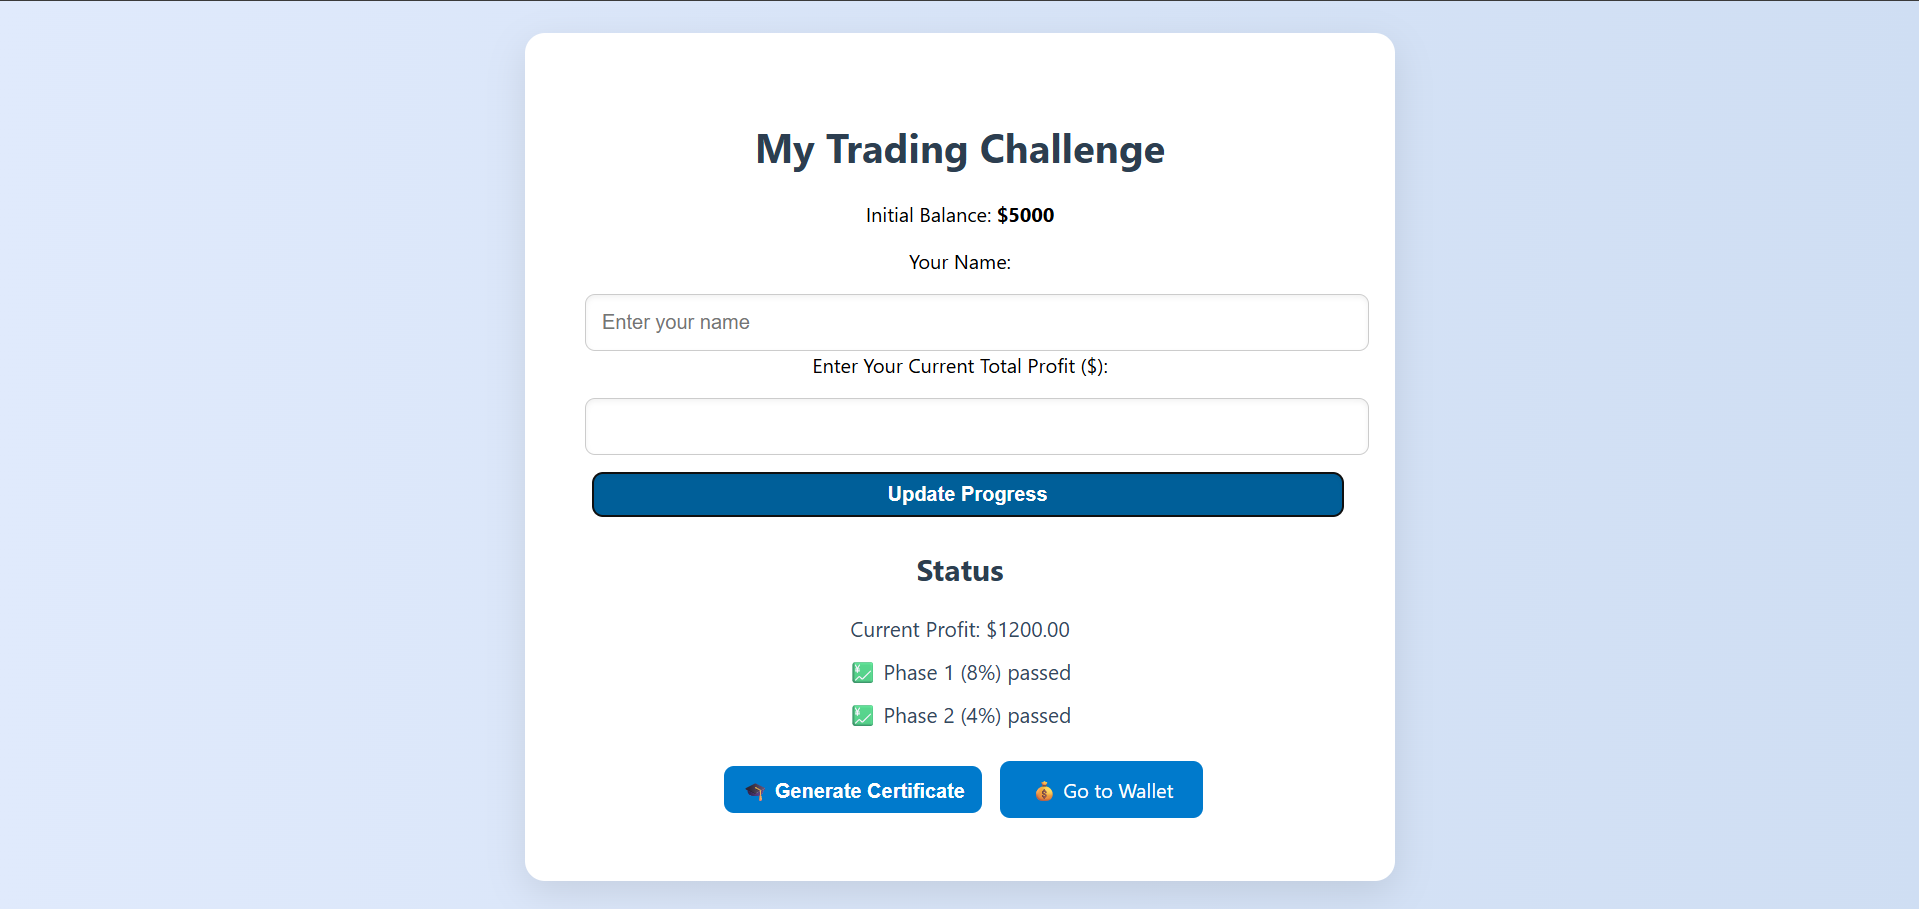
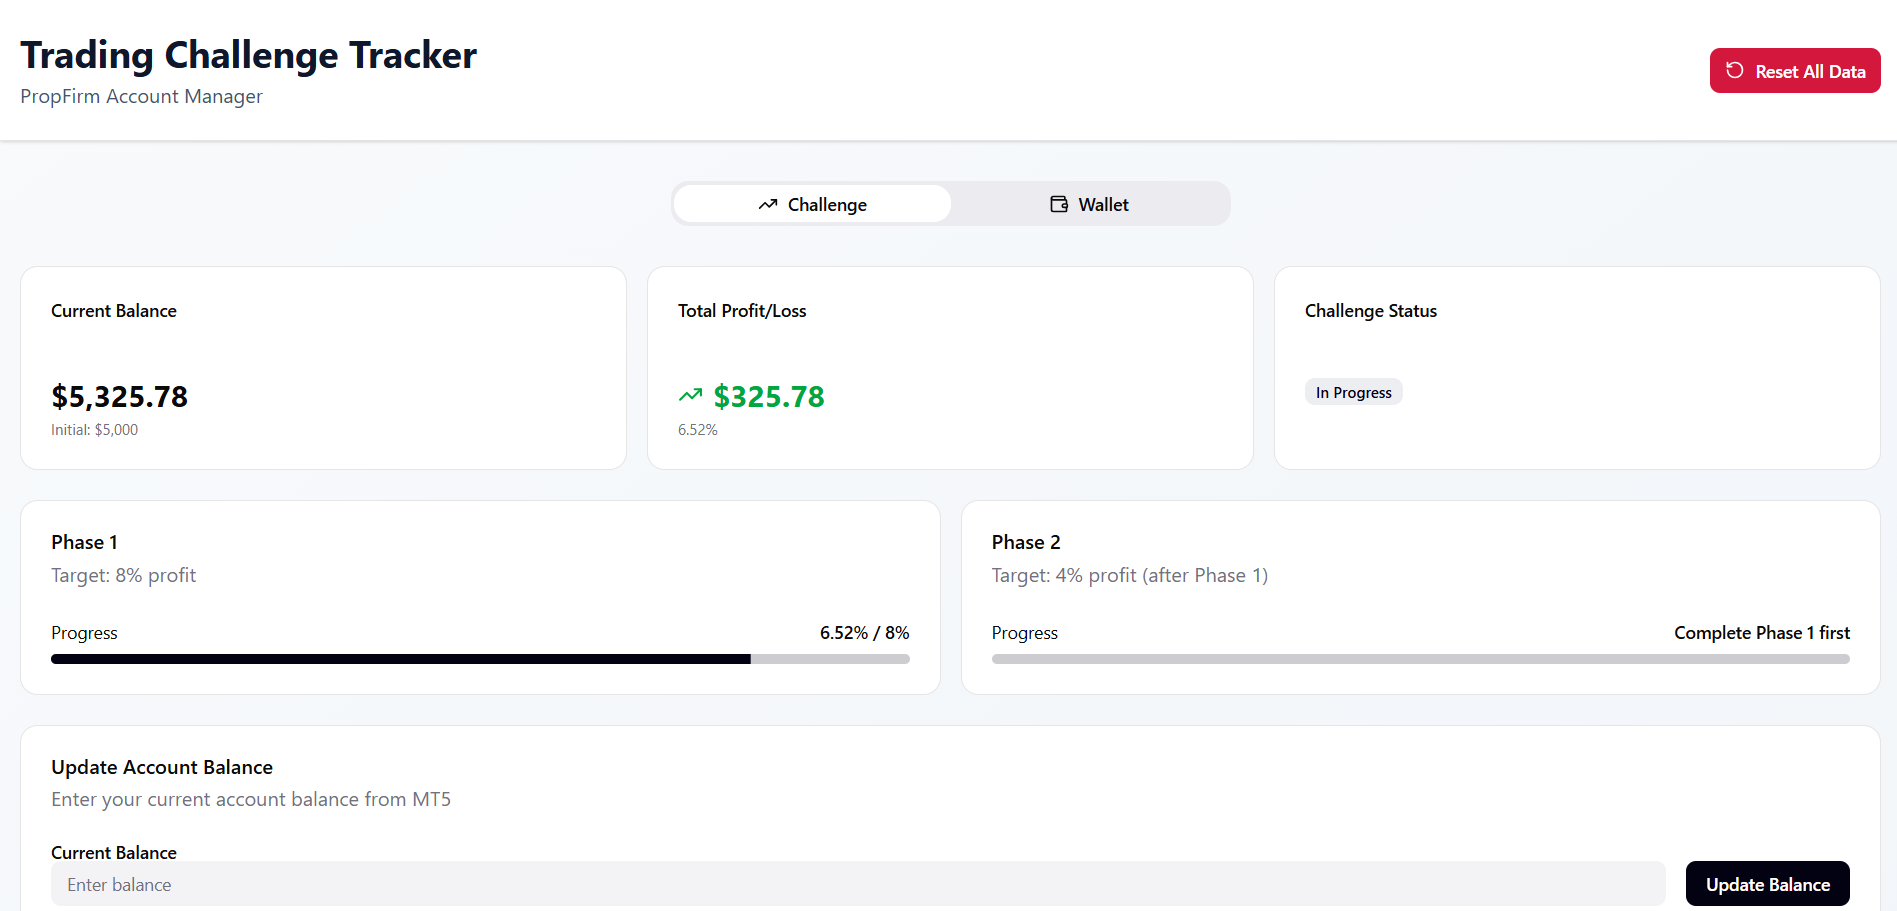
Portfolio

diff --git a/src/content_option.js b/src/content_option.js
@@ -24,9 +24,14 @@ import Uni3 from "./assets/images/Uni3.png";
 import Mtaa1 from "./assets/images/Mtaa1.png";
 import Mtaa2 from "./assets/images/Mtaa2.png";
 import Mtaa3 from "./assets/images/Mtaa3.png";
-import Tas1 from "./assets/images/Tas1.png";
-import Tas2 from "./assets/images/Tas2.png";
-import Tas3 from "./assets/images/Tas3.png";
+import Fork1 from "./assets/images/fork1.png";
+import Fork2 from "./assets/images/fork2.png";
+import Fork3 from "./assets/images/fork3.png";
+import Gaza1 from "./assets/images/gaza1.png";
+import Gaza2 from "./assets/images/gaza2.png";
+import Uzunguni1 from "./assets/images/uzunguni1.png";
+import Uzunguni2 from "./assets/images/uzunguni2.png";
+import Uzunguni3 from "./assets/images/uzunguni3.png";
 
 const logotext = "IBRAHIM";
 const meta = {
@@ -89,18 +94,6 @@ const services = [
 ];
 
 const dataportfolio = [
-  // {
-  //   id: "project-6",
-  //   title: "TAS StartUp Business",
-  //   img: Tas1,
-  //   screenshots: [Tas1, Tas2, Tas3],
-  //   shortDescription:
-  //     "A startup focused on building innovative digital solutions tailored for Tanzania’s needs.",
-  //   description:
-  //     "This is my startup, Tanzania Apps Solutions (TAS), where we focus on developing digital solutions for businesses and individuals. We create websites, web applications, and tools that solve real-world problems in Tanzania. Our company emphasizes innovation, usability, and delivering solutions that make life and work easier. TAS combines technology and creativity to build products that are both practical and user-friendly.",
-  //   link: "/projects/project-6",
-  //   live: "https://tanzaniaappssolutions.vercel.app/",
-  // },
   {
     id: "project-7",
     title: "ToursConnect Booking System",
@@ -123,6 +116,79 @@ const dataportfolio = [
     description:
       "MtaaMarket is a simple local marketplace that helps small sellers and nearby buyers connect using WhatsApp. Sellers can sign up, add products, and manage their shop from an easy dashboard, while buyers browse products, visit seller shops, and contact sellers easily. An admin manages sellers, products, and categories, making MtaaMarket easy to use and friendly for small businesses.",
     link: "/projects/project-10",
+  },
+  {
+    id: "project-12",
+    title: "Fashion Designer Website",
+    img: Gaza1,
+    screenshots: [Gaza1, Gaza2,],
+    shortDescription: "A stylish and elegant portfolio website designed to showcase fashion collections. ",
+    description:
+      "A stylish and elegant portfolio website designed to showcase fashion collections. It features a high-quality image gallery, latest designs, and an easy way for clients to get in touch.",
+    link: "/projects/project-12",
+    live: "https://gaza-boe.vercel.app/",
+  },
+   {
+    id: "project-11",
+    title: "Golden-Fork Restaurant Website",
+    img: Fork1,
+    screenshots: [Fork1, Fork2, Fork3],
+    shortDescription: "A modern restaurant website ",
+    description:
+      "A modern restaurant website featuring a dynamic menu display, online reservations, and a showcase of the restaurant's best dishes and ambiance.",
+    link: "/projects/project-11",
+  },
+  {
+    id: "project-13",
+    title: "Uzunguni-City Park Restaurant Website",
+    img: Uzunguni1,
+    screenshots: [Uzunguni1, Uzunguni2, Uzunguni3],
+    shortDescription: "A dynamic and user-friendly website for Uzunguni City Park Restaurant.",
+    description:
+      "A dynamic and user-friendly website for Uzunguni City Park Restaurant. It highlights the menu, location, and special events, offering customers a seamless browsing experience.",
+    link: "/projects/project-13",
+  },
+  {
+    id: "project-9",
+    title: "Numerology Website",
+    img: Numerology1,
+    screenshots: [Numerology1, Numerology2],
+    shortDescription:
+      "An online platform that provides personalized numerology readings and predictions based on user data.",
+    description:
+      "This is a personalized numerology and life insights platform. Users can enter their birth date or name to get numerology reports. The site calculates life paths, predictions, and other numerology data. It presents the results in a clean and interactive way. Users can explore different numerology tools and charts.",
+    link: "/projects/project-9",
+  },
+  {
+    id: "project-3",
+    title: "Cyber Website Automation",
+    img: Cyber1,
+    screenshots: [Cyber1, Cyber2, Cyber3],
+    shortDescription: "A project that is automated using Selenium and Python.",
+    description:
+      "This project automates repetitive tasks on websites using Python and Selenium. It can log in, fill forms, navigate pages, and perform actions automatically, saving time and reducing errors. The automation makes processes faster and easier compared to doing everything by hand. It is useful for testing websites or performing regular tasks efficiently. The system is simple to use and improves productivity by letting the computer do the repetitive work.",
+    link: "/projects/project-3",
+  },
+  {
+    id: "project-4",
+    title: "E-commerce Website",
+    img: Glow1,
+    screenshots: [Glow1, Glow2, Glow3],
+    shortDescription:
+      "Simple online store for browsing and purchasing solar energy products easily.",
+    description:
+      "This is a simple frontend website designed for selling solar-powered products. Users can browse products, view details, and navigate the store with ease. The project focuses on creating a clean and modern interface for online shopping. It emphasizes usability and user experience, making it easy for customers to find and purchase products. Although it’s frontend-only, it demonstrates a professional and responsive e-commerce layout.",
+    link: "/projects/project-4",
+  },
+  {
+    id: "project-1",
+    title: "Trading Challenge Tracker",
+    img: Challenge1,
+    screenshots: [Challenge1, Challenge2, Challenge3],
+    shortDescription: "Track your trading goals and progress easily.",
+    description:
+      "This project allows users to track their trading profits and monitor progress through different phases. When a phase is completed, the system generates a certificate that can be downloaded. Users can also manage their wallet by depositing or withdrawing funds manually after trading in MetaTrader. It functions similarly to a funded account platform, helping traders track performance and achievements in a structured way. The project is designed to make trading progress easy to follow and reward users for their milestones.",
+    link: "/projects/project-1",
   },
   {
     id: "project-2",
@@ -156,48 +222,6 @@ const dataportfolio = [
     description:
       "This system allows students to access IT services and a help desk from one platform. They can communicate with counselors, join study groups, and share or upload study materials. The system also provides information about jobs and internships posted by the university. It’s designed to create a connected and supportive environment for students. Overall, it helps students manage academic, social, and career-related activities efficiently. This is just Frontend for now but it will be developed more later.",
     link: "/projects/project-8",
-  },
-  {
-    id: "project-9",
-    title: "Numerology Website",
-    img: Numerology1,
-    screenshots: [Numerology1, Numerology2],
-    shortDescription:
-      "An online platform that provides personalized numerology readings and predictions based on user data.",
-    description:
-      "This is a personalized numerology and life insights platform. Users can enter their birth date or name to get numerology reports. The site calculates life paths, predictions, and other numerology data. It presents the results in a clean and interactive way. Users can explore different numerology tools and charts.",
-    link: "/projects/project-9",
-  },
-  {
-    id: "project-3",
-    title: "Cyber Website Automation",
-    img: Cyber1,
-    screenshots: [Cyber1, Cyber2, Cyber3],
-    shortDescription: "A project that is automated using Selenium and Python.",
-    description:
-      "This project automates repetitive tasks on websites using Python and Selenium. It can log in, fill forms, navigate pages, and perform actions automatically, saving time and reducing errors. The automation makes processes faster and easier compared to doing everything by hand. It is useful for testing websites or performing regular tasks efficiently. The system is simple to use and improves productivity by letting the computer do the repetitive work.",
-    link: "/projects/project-3",
-  },
-  {
-    id: "project-4",
-    title: "E-commerce Website",
-    img: Glow1,
-    screenshots: [Glow1, Glow2, Glow3],
-    shortDescription:
-      "TAn online store for browsing and purchasing solar energy products easily.",
-    description:
-      "This is a simple frontend website designed for selling solar-powered products. Users can browse products, view details, and navigate the store with ease. The project focuses on creating a clean and modern interface for online shopping. It emphasizes usability and user experience, making it easy for customers to find and purchase products. Although it’s frontend-only, it demonstrates a professional and responsive e-commerce layout.",
-    link: "/projects/project-4",
-  },
-  {
-    id: "project-1",
-    title: "Trading Challenge Tracker",
-    img: Challenge1,
-    screenshots: [Challenge1, Challenge2, Challenge3],
-    shortDescription: "Track your trading goals and progress easily.",
-    description:
-      "This project allows users to track their trading profits and monitor progress through different phases. When a phase is completed, the system generates a certificate that can be downloaded. Users can also manage their wallet by depositing or withdrawing funds manually after trading in MetaTrader. It functions similarly to a funded account platform, helping traders track performance and achievements in a structured way. The project is designed to make trading progress easy to follow and reward users for their milestones.",
-    link: "/projects/project-1",
   },
 ];
 
